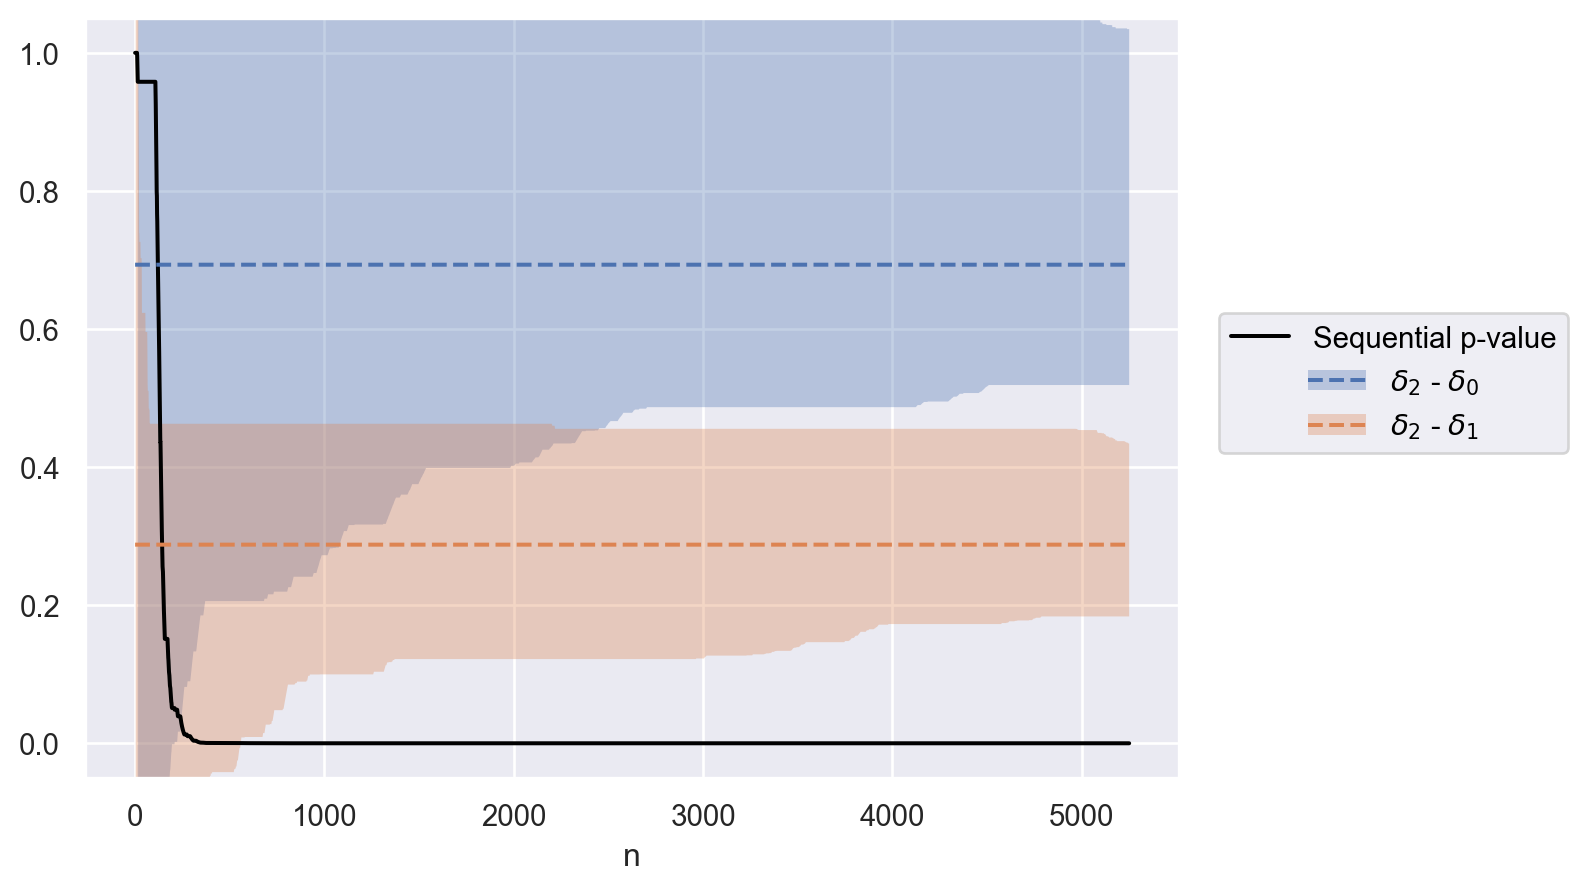
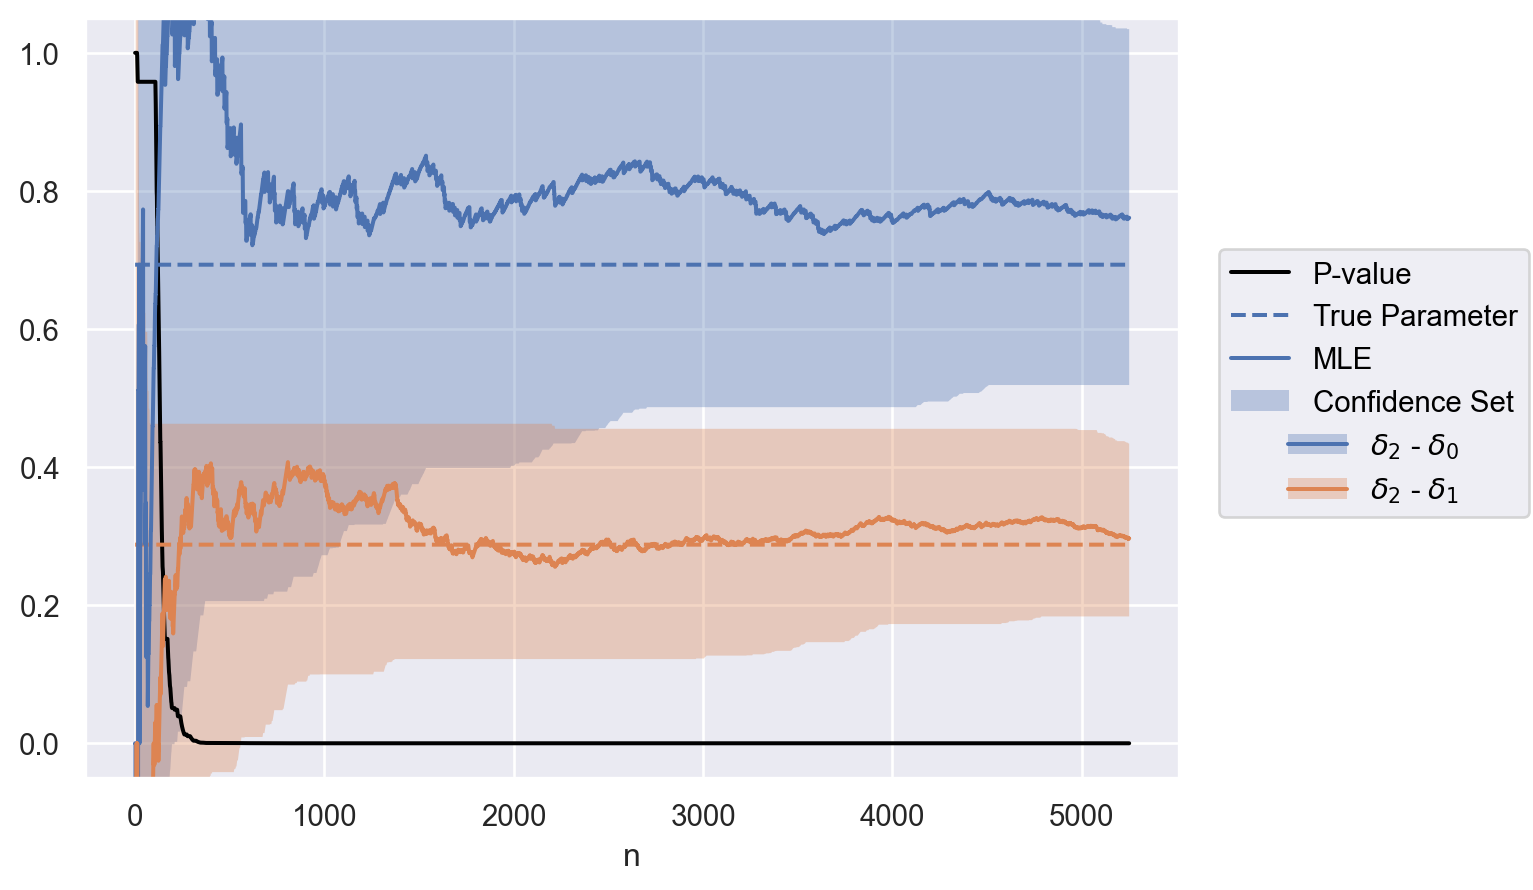
update docs

diff --git a/README.md b/README.md
@@ -3,12 +3,10 @@
 
 - [Install](#install)
 - [Examples](#examples)
-  - [Multinomial](#multinomial)
-    - [Multinomial Test](#multinomial-test)
-    - [Inhomogeneous Bernoulli
-      Process](#inhomogeneous-bernoulli-process)
-    - [Inhomogeneous Poisson Counting
-      Process](#inhomogeneous-poisson-counting-process)
+  - [Multinomial Test](#multinomial-test)
+  - [Inhomogeneous Bernoulli Process](#inhomogeneous-bernoulli-process)
+  - [Inhomogeneous Poisson Counting
+    Process](#inhomogeneous-poisson-counting-process)
 - [References](#references)
 
 savvi is a package for Safe Anytime Valid Inference. Also, it’s a savvy
@@ -31,8 +29,6 @@ pip install git+https://github.com/assuncaolfi/savvi
 For development, use [pdm](https://github.com/pdm-project/pdm).
 
 ## Examples
-
-### Multinomial
 
 Implementation of tests from Anytime-Valid Inference for Multinomial
 Count Data ([Lindon and Malek 2022](#ref-lindon2022anytimevalid)).
@@ -84,24 +80,7 @@ from savvi import Multinomial
 u = 0.05
 theta_0 = np.array([0.1, 0.4, 0.5])
 test = Multinomial(0.05, theta_0)
-test.__dict__
 ```
-
-    {'u': 0.05,
-     'n': 0,
-     'odds': 1.0,
-     'p': 1.0,
-     'theta_0': array([0.1, 0.4, 0.5]),
-     'theta': Variable((3,), theta),
-     'delta': Variable((3,), delta),
-     'hypothesis': [],
-     'alpha_0': array([10., 40., 50.]),
-     'alpha': array([10., 40., 50.]),
-     'counts': array([0, 0, 0]),
-     'confidence_set': array([[-inf,  inf],
-            [-inf,  inf],
-            [-inf,  inf]]),
-     '_weights': array([], dtype=float64)}
 
 For each new unit sample $n$, we run the test. If $p_n < u$, we have the
 option to stop running:
@@ -119,6 +98,7 @@ def run_sequence(test, xs, **kwargs):
         sequence[n] = {
             "n": test.n,
             "p": test.p,
+            "mle": test.mle.tolist(),
             "confidence_set": test.confidence_set.tolist(),
         }
         if test.p <= u:
@@ -134,6 +114,7 @@ optional_stop
 
     {'n': 402,
      'p': 0.04845591105969517,
+     'mle': [0.09950248756218906, 0.3208955223880597, 0.5796019900497512],
      'confidence_set': [[0.056684768115202705, 0.1493967591525672],
       [0.2608987241982874, 0.4028302603098119],
       [0.4971209299792429, 0.6517617329309116]]}
@@ -150,7 +131,7 @@ def to_df(sequence, parameter, value):
     size = len(sequence)
     data = (
         pl.from_dicts(sequence)
-        .explode("confidence_set")
+        .explode("confidence_set", "mle")
         .with_columns(
             confidence_set=pl.col("confidence_set").list.to_struct(
                 fields=["lower", "upper"]
@@ -166,10 +147,12 @@ def to_df(sequence, parameter, value):
 def plot(data):
     plot = (
         so.Plot(data.to_pandas(), x="n")
-        .add(so.Line(color="black"), y="p", label="Sequential p-value")
-        .add(so.Line(linestyle="dashed"), y="value", color="parameter")
+        .add(so.Line(color="black"), y="p", label="P-value")
+        .add(so.Line(linestyle="dashed"), y="value", color="parameter", label="True Parameter")
+        .add(so.Line(), y="mle", color="parameter", label="MLE")
         .add(
-            so.Band(alpha=1 / theta.size), ymin="lower", ymax="upper", color="parameter"
+            so.Band(alpha=1 / theta.size), 
+            ymin="lower", ymax="upper", color="parameter", label="Confidence Set"
         )
         .label(color="", y="")
         .limit(y=(-0.05, 1.05))
@@ -263,6 +246,7 @@ optional_stop
 
     {'n': 210,
      'p': 0.04861129531258319,
+     'mle': [1.0986122886681098, 0.21622310846963605],
      'confidence_set': [[0.0020567122072947704, 1.4880052569753974],
       [-0.3216759113208812, 0.4627565948192972]]}
 
@@ -349,6 +333,7 @@ optional_stop
 
     {'n': 168,
      'p': 0.04675270375081281,
+     'mle': [0.5839478885949534],
      'confidence_set': [[0.0036592933902448955, 0.9085292981365327]]}
 
 <details class="code-fold">
